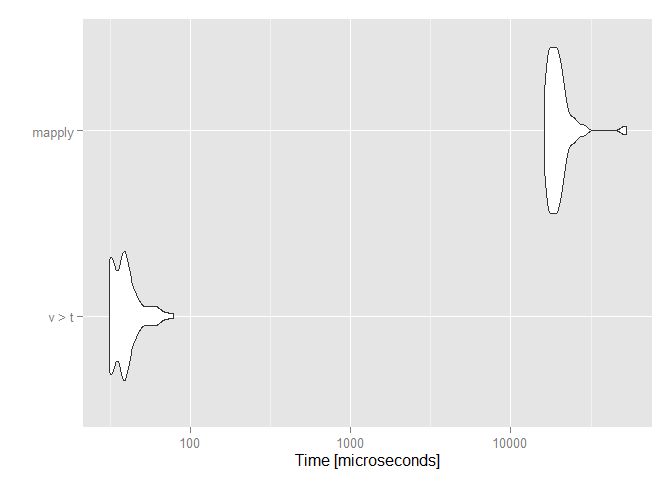
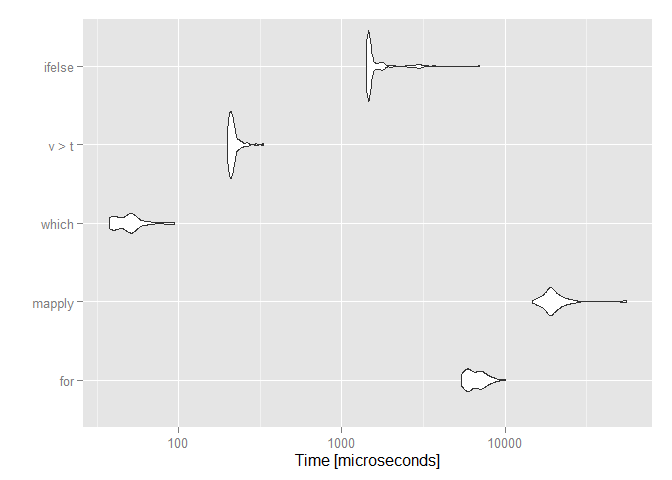
How to compare two vector values

diff --git a/RBenchmarkings.md b/RBenchmarkings.md
@@ -113,4 +113,75 @@ Conclusion
 ------------
 Although the difference between the two operators is very tight, it should be taken into account if we use these operators inside a loop or any other repetitve structure. Multiply the small difference by the number of times the operator is used during the program execution to assess if the effort worth it. 
 
+Comparison of two vector values
+======
 
+Assume that you want to know which items in a vector `v` (values) have higher values than the corresponding items (by position) in another vector `t` (threshold). The goal is setting to 0 those values. This is a task that can be accomplished in several ways, for instance:
+
+
+```r
+fgen <- function() runif(numElements, 1, 10)
+v <- fgen() 
+t <- fgen()
+
+result <- microbenchmark(
+  { for(i in 1:length(v)) if(v[i] > t[i]) v[i] <- 0 },
+  { v <- mapply(function(a,b) if(a > b) 0 else a, v, t) },
+  { v[which(v > t)] <- 0 },
+  { v[v > t] <- 0 },
+  { v <- ifelse(v > t, 0, v) }
+)
+```
+
+
+```
+## Unit: microseconds
+##    expr       min         lq       mean     median         uq       max
+##     for  5382.925  5904.7220  6666.7661  6543.4520  7280.7865 10064.621
+##  mapply 14723.958 18135.1590 20743.7826 19241.9855 21320.1935 55921.199
+##   which    37.389    41.2380    50.5235    49.8525    52.6020    94.940
+##   v > t   199.408   205.6405   216.6775   211.6890   219.7525   330.271
+##  ifelse  1397.692  1454.3250  1717.3311  1473.0200  1610.6625  7048.570
+##  neval
+##    100
+##    100
+##    100
+##    100
+##    100
+```
+
+![](figure/unnamed-chunk-4-1.png) 
+
+As can be seen, `mapply` produces the worst performance, followed by the `for` loop. The quickest way to do the work is almost the simplest one, using the `which` function. This function returns the indexes of elements affected, while  with the expression `v[v > t] <- 0` an array of the same length than `v` and `t` is obtained and all their elements are tested to see if they are `TRUE` or `FALSE` before the assignment.
+
+Simple functions can be vectorized by means of the `Vectorize` function in the base R package. Let us see how this approach performs against the best one of the previous tests:
+
+
+```r
+v <- fgen() 
+t <- fgen()
+f <- function(a, b) if(a > b) 0 else a
+vf <- Vectorize(f)
+
+result <- microbenchmark(
+  { v[which(v > t)] <- 0 },
+  { v <- vf(v, t) }
+)
+```
+
+
+```
+## Unit: microseconds
+##       expr       min       lq        mean    median         uq       max
+##      which    37.389    46.92    52.51384    50.219    56.4505   155.056
+##  Vectorize 15575.475 18293.51 21093.86502 20166.998 21997.0455 61137.339
+##  neval
+##    100
+##    100
+```
+
+![](figure/unnamed-chunk-5-1.png) 
+
+Conclusion
+--------------
+When it comes to apply some change to those items in a vector that satisfy a certain restriction, it seems that firstly obtaining the indexes, with the `which` function, and then making the change is the most efficient way of those compared here.
